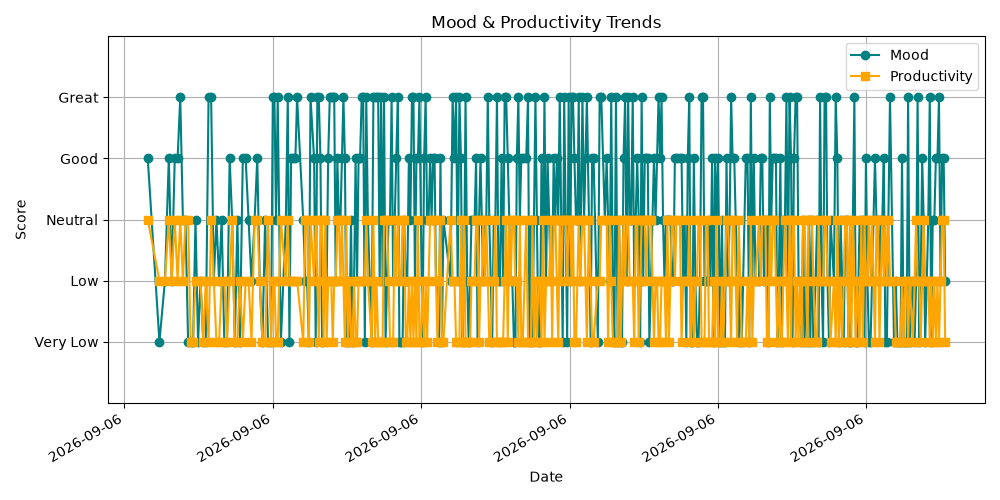
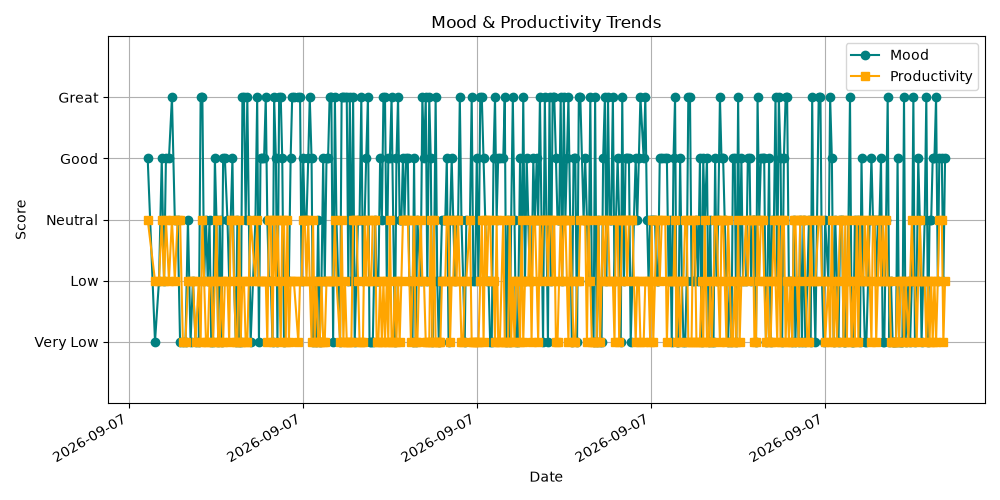
Daily log update [skip ci]

diff --git a/docs/log.md b/docs/log.md
@@ -1813,3 +1813,7 @@
 - Mood: 🙁 | Productivity: Low | Date: 2026-09-06 08:39:13 UTC
 - Reflection: "Believe you can and you're halfway there."
 
+## Log Entry: Mon Sep  7 09:19:04 UTC 2026
+- Mood: 🙂 | Productivity: Medium | Date: 2026-09-07 09:19:04 UTC
+- Reflection: "Every day is a second chance."
+

diff --git a/log.md b/log.md
@@ -1813,3 +1813,7 @@
 - Mood: 🙁 | Productivity: Low | Date: 2026-09-06 08:39:13 UTC
 - Reflection: "Believe you can and you're halfway there."
 
+## Log Entry: Mon Sep  7 09:19:04 UTC 2026
+- Mood: 🙂 | Productivity: Medium | Date: 2026-09-07 09:19:04 UTC
+- Reflection: "Every day is a second chance."
+
